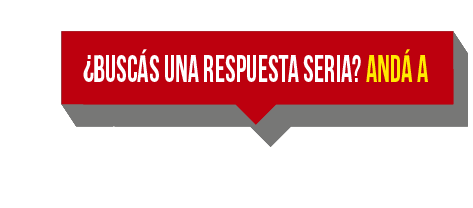
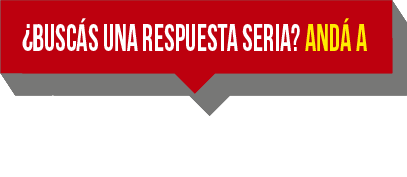
Fix Slider Responsive y mensaje del slider
Se solucionó el bug donde la imagen del slide se cargaba chica y luego
se ajustaba. Se ajustaron las medidas del mensaje para que se vea
siempre

diff --git a/css/responsive.css b/css/responsive.css
@@ -1,4 +1,10 @@
-@media (max-width: 991px) {
+@media screen and (max-width: 1279px) {
+.position-fix {
+	width: 300px !important;
+}
+}
+
+@media screen and (max-width: 991px) {
 
 	.red_line{width: 40%;}
 	.formulario h2 .parte-1 {
@@ -23,14 +29,20 @@
   	.cont_2{float: none;}
 }
 
-@media (min-width: 768px) {
+@media screen and (max-width: 959px) {
+	.position-fix {
+		width: 250px !important;
+	}
+}
+
+@media screen and (min-width: 768px) {
 	/*MODAL*/
 	.modal-dialog {
 	  margin: 30px auto;
 	}
 }
 
-@media (max-width: 767px) {
+@media screen and (max-width: 767px) {
 	#menssage_box{
 		width: 50vw;
 		height: 50vw;
@@ -56,9 +68,11 @@
 		top: 10px;
 	}
 	/*LAYERSLIDER*/
-	.position-fix img {
-		top:20px;
-		width: 300px;
+	.position-fix {
+		width: 200px !important;
+	}
+	img.ls-preloaded {
+	  right: -10px !important;
 	}
 	/*CAROUSEL*/
 
@@ -104,7 +118,7 @@
 }
 
 
-@media (max-width: 640px) {
+@media screen and (max-width: 639px) {
 	.call_title {
 		height: 47px;
 		margin-left: -14%;
@@ -121,11 +135,11 @@
 		width:200px !important;
 	}
 	/*LAYERSLIDER*/
-	.position-fix img {
-		top:0;
+	.position-fix {
+		width: 150px !important;
 	}
-	.position-fix img {
-		width: 250px;
+	img.ls-preloaded {
+	  right: -5px !important;
 	}
 
 	.red_text_form{
@@ -144,7 +158,7 @@
 	}
 }
 
-@media (max-width: 580px){
+@media screen and (max-width: 579px){
 	.formulario h2 .parte-1 {
  		width: 70%;
  		display: block;  
@@ -163,11 +177,10 @@
   	}
 }
 
-@media (max-width: 480px) {
+@media screen and (max-width: 479px) {
 	/*LAYERSLIDER*/
-	.position-fix img {
-		top:0;
-		width: 150px;
+	.position-fix {
+		width: 100px !important;
 	}
 
 	.formulario h2 .parte-1 {
@@ -195,7 +208,7 @@
 		padding:0px;
 	}
 }	
-@media (max-width: 320px) {	
+@media screen and (max-width: 319px) {	
 	footer h3 {
 	  font-size: 1.2em;
 	}

diff --git a/index.html b/index.html
@@ -88,7 +88,7 @@
         <!-- slide 1 -->
         <div class="ls-slide" data-ls="slidedelay:4000; transition2d:2;">
             <img src="img/slider-01.jpg" class="ls-bg" alt="Slide background" style="width: 100% !important; height:100% !important;">
-            <div class="position-fix ls-l" style="top:60%;"> 
+            <div class="position-fix ls-l"> 
                 <a href="http://www.solucionesmemory.com/" target="_blank" class="opacity">
                   <img src="img/slider-01-img-b.png">
                 </a>
@@ -97,7 +97,7 @@
         <!-- slide 2 -->
         <div class="ls-slide" data-ls="slidedelay:4000; transition2d:2;">
             <img src="img/slider-02.jpg" class="ls-bg" alt="Slide background" style="width: 100% !important; height:100% !important;">
-            <div class="position-fix ls-l" style="top:60%;"> 
+            <div class="position-fix ls-l"> 
                 <a href="http://www.solucionesmemory.com/" target="_blank" class="opacity">
                   <img src="img/slider-01-img-b.png">
                 </a>
@@ -269,8 +269,7 @@
 <!-- Layerslider -->
 <script>
   jQuery("#layerslider").layerSlider({
-    responsive: true,
-    responsiveUnder : 1000,
+    
     autoStart: true,
     skin: 'v5',
     hoverPrevNext: false,

diff --git a/css/estilos.css b/css/estilos.css
@@ -97,11 +97,6 @@ p{
 	
 }
 
-img.ls-preloaded {
-  right: -19px !important;
-  position: absolute;
-}
-
 .ls-v5 .ls-nav-prev, .ls-v5 .ls-nav-next {
   width: 70px !important;
   height: 70px !important;
@@ -127,15 +122,27 @@ img.ls-preloaded {
 
 
 /*fix to position layer to the right*/
+
 .position-fix {
-	width:100% !important;
+	width: 407px !important;
+	top: auto !important;
+	left: auto !important;
+	right: 0 !important;
+	bottom: 35% !important;
 	display:block;
-	position:relative;	
+	position: absolute;	
 }
 .position-fix img {
-	position: absolute;
-	right: 1%;
+	width: 100% !important;
+	/*position: absolute;
+	right: 1%;*/
 }
+
+img.ls-preloaded {
+  right: -15px !important;
+  position: absolute;
+}
+
 /*agrandar imagenes con links en hover*/
 .opacity img {
 	opacity: 1;
